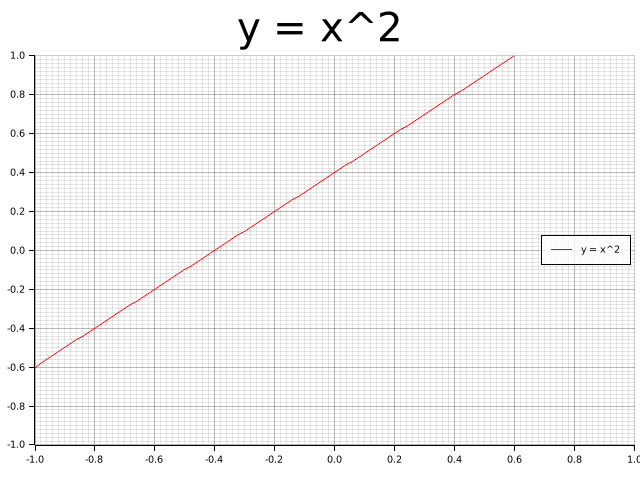
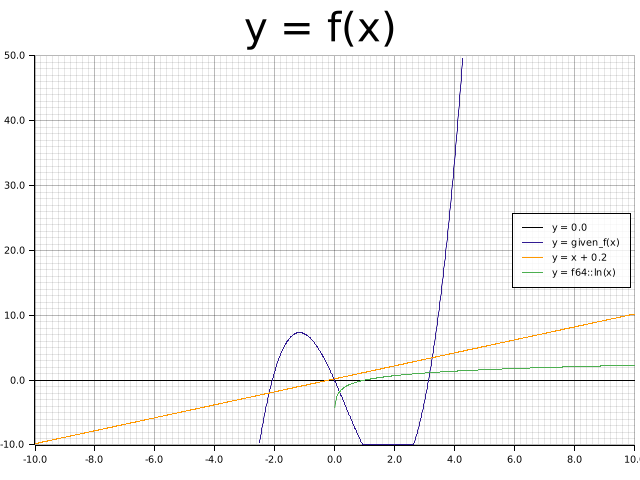
Made it work perfectly, added some constants to make it more clear

diff --git a/src/main.rs b/src/main.rs
@@ -1,48 +1,83 @@
+#![warn(
+    clippy::complexity,
+    clippy::correctness,
+    clippy::nursery,
+    clippy::pedantic,
+    clippy::perf,
+    clippy::style,
+    clippy::suspicious
+)]
+
+use color_eyre::{eyre::anyhow, Result};
 use plotters::prelude::*;
 
-const Y_MAX: f32 = 1.0;
-const Y_MIN: f32 = -1.0;
+const Y_MAX: f64 = 50.0;
+const Y_MIN: f64 = -10.0;
+const X_MAX: f64 = 10.0;
+const X_MIN: f64 = -10.0;
+const NUM_POINTS_ON_DISPLAY: i32 = 1500;
 
-fn main() -> color_eyre::Result<()> {
-    draw(|x| x + 0.4)
+macro_rules! draw_function {
+    ($chart:ident ($color:expr): $fun:expr) => {
+        #[allow(clippy::redundant_closure)]
+        #[allow(unused_variables)]
+        $chart
+            .draw_series(LineSeries::new(
+                (0..=NUM_POINTS_ON_DISPLAY).filter_map(|x| {
+                    let x = (x as f64 / NUM_POINTS_ON_DISPLAY as f64).mul_add(X_MAX - X_MIN, X_MIN);
+                    let y = $fun(x);
+
+                    if !(Y_MIN..Y_MAX).contains(&y) {
+                        return None;
+                    }
+
+                    Some((x, y))
+                }),
+                &$color,
+            ))?
+            .label(stringify!($fun).replace("|x| ", "y = "))
+            .legend(|(x, y)| PathElement::new(vec![(x, y), (x + 20, y)], &$color));
+    };
 }
 
-fn draw(fun: impl Fn(f32) -> f32) -> color_eyre::Result<()> {
-    let root = BitMapBackend::new("images/0.png", (640, 480)).into_drawing_area();
+fn main() -> Result<()> {
+    // Program can still execute if this fails, so we'll just ignore failure if it occurs.
+    color_eyre::install().ok();
+
+    let args = std::env::args().collect::<Vec<_>>();
+    let Some(image_path) = args.get(1) else {
+        return Err(anyhow!("Couldn't get filename to write JPG to. Provide it as an command-line argument"));
+    };
+
+    let root = BitMapBackend::new(image_path, (640, 480)).into_drawing_area();
 
     root.fill(&WHITE)?;
 
     let mut chart = ChartBuilder::on(&root)
-        .caption("y = x^2", ("sans-serif", 50).into_font())
+        .caption("y = f(x)", ("sans-serif", 50).into_font())
         .margin(5)
         .x_label_area_size(30)
         .y_label_area_size(30)
-        .build_cartesian_2d(-1f32..1f32, Y_MIN..Y_MAX)?;
+        .build_cartesian_2d(X_MIN..X_MAX, Y_MIN..Y_MAX)?;
 
     chart.configure_mesh().draw()?;
 
-    chart
-        .draw_series(LineSeries::new(
-            (-50..=50).map(|x| x as f32 / 50.0).filter_map(|x| {
-                let y = fun(x);
-                if y > Y_MAX || y < Y_MIN {
-                    None
-                } else {
-                    Some((x, y))
-                }
-            }),
-            &RED,
-        ))?
-        .label("y = x^2")
-        .legend(|(x, y)| PathElement::new(vec![(x, y), (x + 20, y)], &RED));
+    draw_function!(chart (plotters::style::colors::BLACK): |x| 0.0);
+    draw_function!(chart (plotters::style::colors::full_palette::DEEPPURPLE_900): |x| given_f(x));
+    draw_function!(chart (plotters::style::colors::full_palette::ORANGE): |x| x + 0.2);
+    draw_function!(chart (plotters::style::colors::full_palette::GREEN): |x| f64::ln(x));
 
     chart
         .configure_series_labels()
-        .background_style(&WHITE.mix(0.8))
-        .border_style(&BLACK)
+        .background_style(WHITE.mix(0.8))
+        .border_style(BLACK)
         .draw()?;
 
     root.present()?;
 
     Ok(())
+}
+
+fn given_f(x: f64) -> f64 {
+    10.45f64.mul_add(-x, 1.6f64.mul_add(x.powi(3), -1.7 * x.powi(2)))
 }
